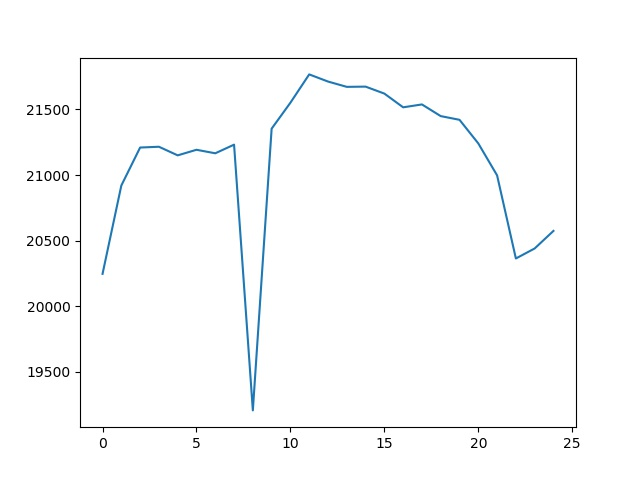
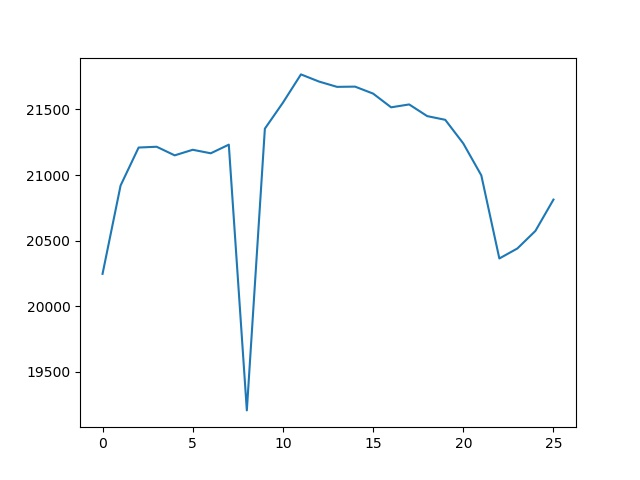
'auto'

diff --git a/README.md b/README.md
@@ -1,5 +1,5 @@
 Frizider live: 5
-20574.18333333333 
+20812.991666666665 
 1
 Temperatura:
 
